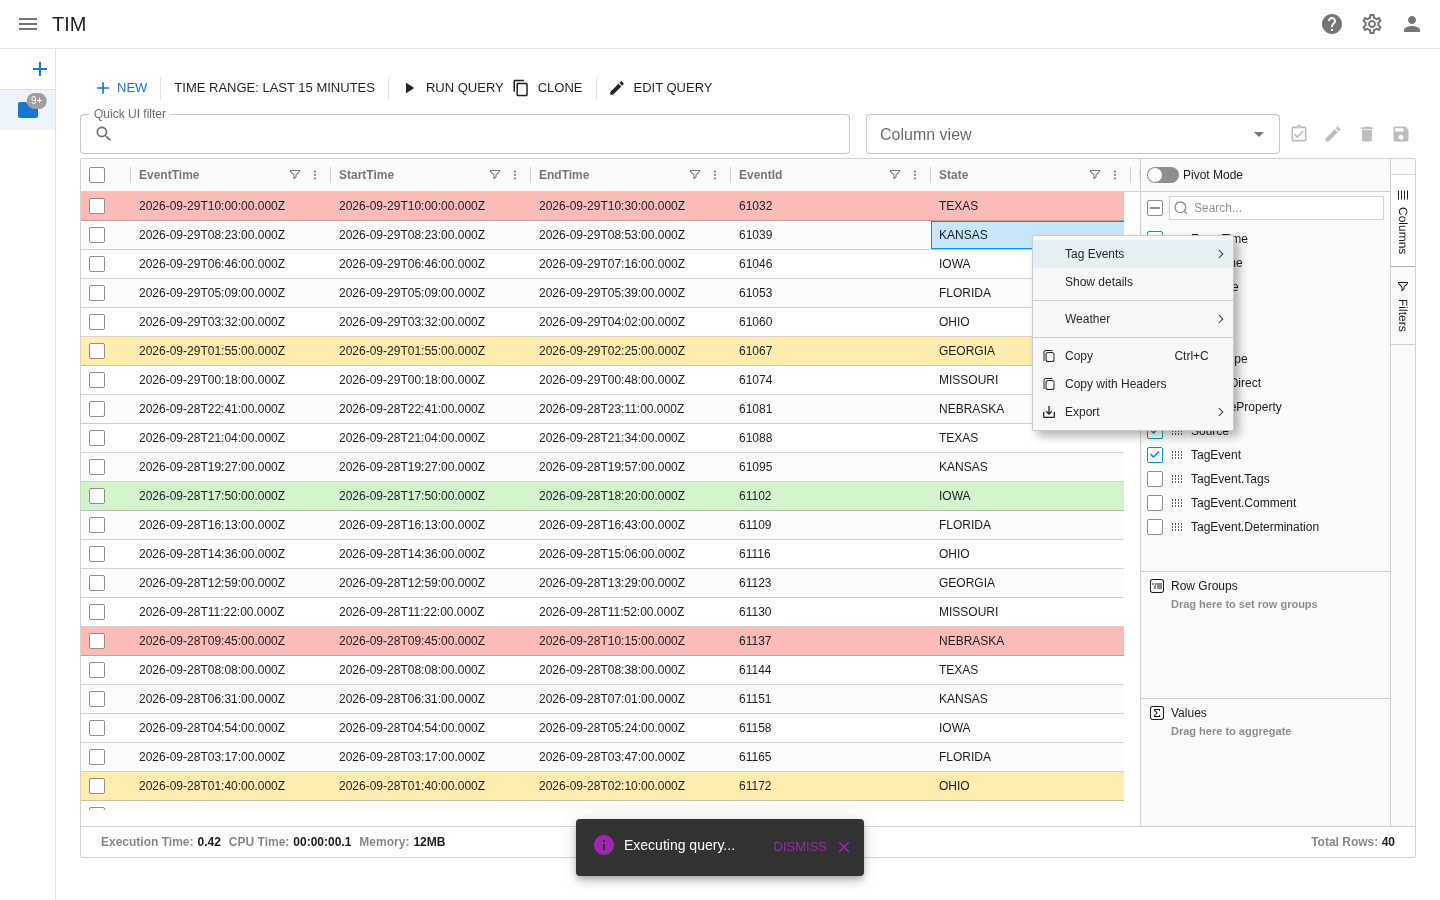
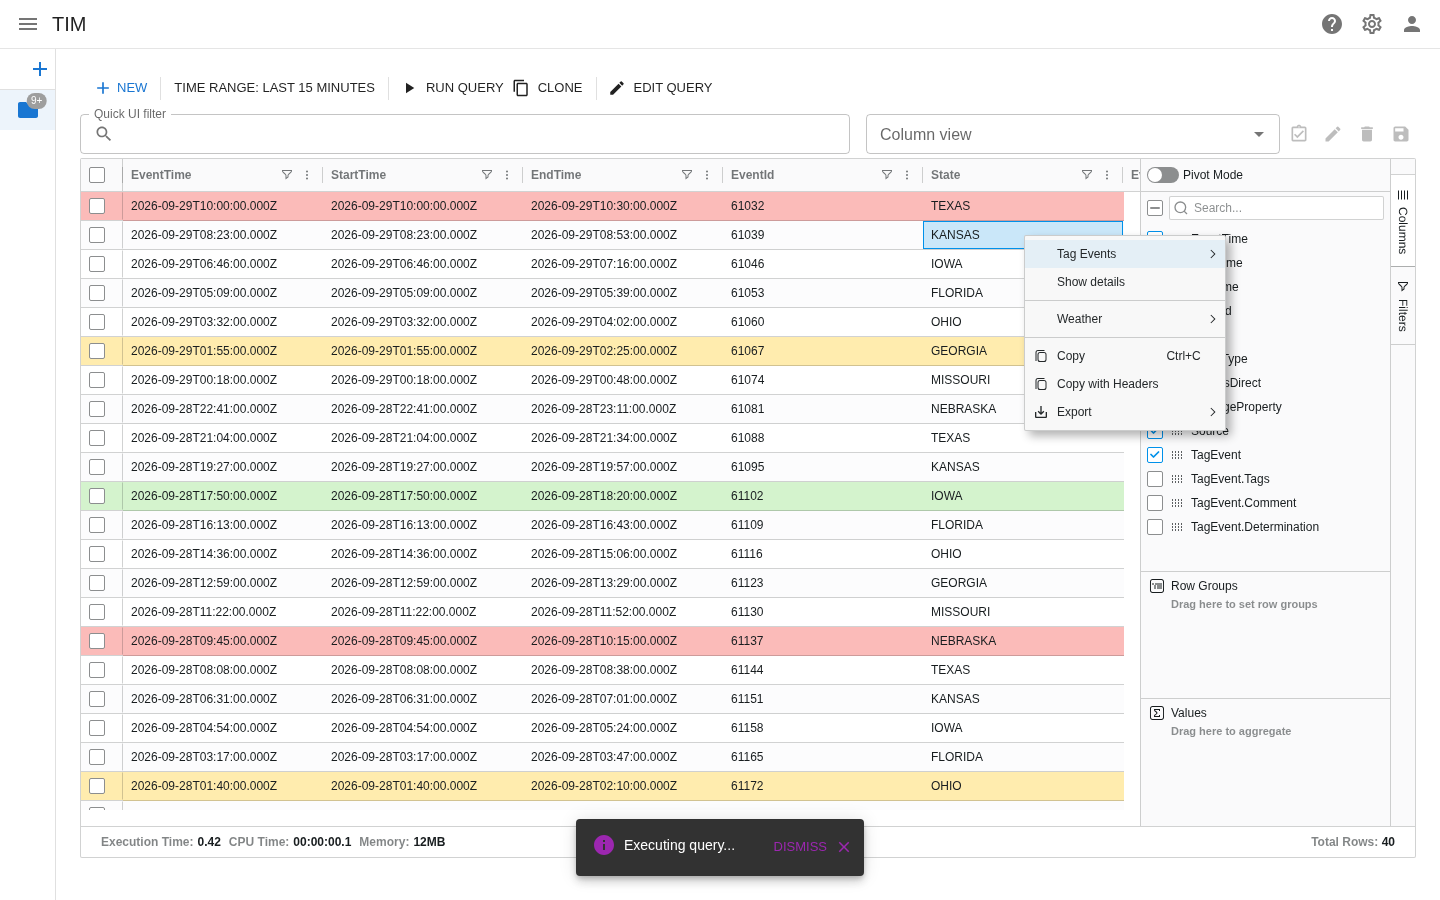
fix(web): pin the selection checkbox column left (P5-17)
A live side-by-side sweep of the legacy app (8a2ff2e) and the rewrite
found that the row checkboxes scrolled away when the grid scrolled
sideways; legacy pinned them (KustoPivot.vue checkboxColDef). Add
selectionColumnDef pinned left, width 42 (F-C01) and re-capture
screens 21-27.

Parity report: record F-C01 (fixed) and F-C02 (export still writes
isDeleted/isManaged/name; open for a decision), accept the on-blur
validation difference (32 #3), and update verdicts P5-13 had already
fixed. Add P5-17 to the work breakdown and refresh the status.

diff --git a/web/src/features/grid/grid.test.ts b/web/src/features/grid/grid.test.ts
@@ -1,7 +1,13 @@
 import { describe, expect, it } from 'vitest';
 import { aggFuncs, dcount } from './aggregation';
 import { buildColumnDefs, collectColumnNames, prepareRows } from './columns';
-import { buildContextMenu, dateComparator, defaultColDef, quickFilterText } from './gridOptions';
+import {
+  buildContextMenu,
+  dateComparator,
+  defaultColDef,
+  quickFilterText,
+  staticGridOptions,
+} from './gridOptions';
 import { getDetermination, rowClassRules } from './rowClasses';
 import { createStatsStore, formatExecutionStats, formatMemoryMb } from './status';
 
@@ -94,6 +100,14 @@ describe('grid options helpers', () => {
     expect(quickFilterText(null)).toBe('');
     expect(quickFilterText(5)).toBe('5');
   });
+  it('pins the selection checkbox column left (F-C01)', () => {
+    expect(staticGridOptions.selectionColumnDef).toMatchObject({
+      pinned: 'left',
+      lockPinned: true,
+      width: 42,
+    });
+  });
+
   it('multi filter defaults', () => {
     const filters = (defaultColDef.filterParams as { filters: { filter: string }[] }).filters;
     expect(defaultColDef.filter).toBe('agMultiColumnFilter');

diff --git a/web/src/features/grid/gridOptions.ts b/web/src/features/grid/gridOptions.ts
@@ -104,6 +104,16 @@ export const staticGridOptions: GridOptions<GridRowWithId> = {
     headerCheckbox: true,
     selectAll: 'filtered',
   },
+  // Legacy checkboxColDef: checkboxes stay visible while the grid scrolls sideways (F-C01).
+  selectionColumnDef: {
+    pinned: 'left',
+    lockPinned: true,
+    lockPosition: true,
+    suppressMovable: true,
+    width: 42,
+    resizable: false,
+    sortable: false,
+  },
   cellSelection: true,
   sideBar: SIDE_BAR,
   statusBar: { statusPanels: STATUS_PANELS },

diff --git a/docs/rewrite/parity-report.md b/docs/rewrite/parity-report.md
@@ -19,8 +19,12 @@ Each difference is **accepted** (with the reason: ADR, question, bug ID, library
 | F-B03 | 27 | Active side-tree item not highlighted | P5-14 (fixed P5-14) |
 | F-B04 | 33, 34 | Last Updated shows locale text; legacy shows the UTC ISO value. Match legacy (parity first) | P5-14 (fixed P5-14) |
 | F-B05 | 34 | Deleted rows not greyed out in Query Manager | P5-14 (fixed P5-14) |
-| F-B06 | 36 | Screenshot taken before the YAML/query editors loaded; re-capture | P5-13 |
+| F-B06 | 36 | Screenshot taken before the YAML/query editors loaded; re-capture | P5-13 (fixed P5-13) |
 | F-B07 | 40 | Export JSON shape differs from legacy; verify export → import round-trip and drop server-only fields | P5-14 (fixed P5-14 (server-only fields stripped, round-trip test; legacy compat accepted per Q-004)) |
+| F-C01 | 25, 26 | Selection checkbox column scrolls away with the grid; legacy pinned it left (`KustoPivot.vue` `checkboxColDef`, `pinned: 'left'`, `lockPinned`, width 42) | P5-17 (fixed P5-17: `selectionColumnDef` in `web/src/features/grid/gridOptions.ts`; screens 21–27 re-captured) |
+| F-C02 | 40 | Exported `queryTemplate` still holds `isDeleted`, `isManaged` and `name` (only `createdBy`/`updatedBy`/`updated` are stripped, `exportImport.ts` `SERVER_ONLY`) | open: strip them or accept (user decision) |
+
+P5-17 (2026-10-01) re-ran the comparison live: the legacy frontend from `8a2ff2e` and the new app served side by side on the same mocks, each screen driven to the same state in both, with pixel diffs and a text/role/position diff (Vuetify and MUI markup can't be compared as trees). The plainer query-help table (no row dividers, inline code without a grey background) is covered by 13 #4. It found F-C01 and F-C02, the on-blur validation difference (32 #3), and verdicts that P5-13 had fixed but this report still showed as "fix" (07 #1, #4; 12 #1; 13 #2; 14 #4; 15 #7; 36 #1). The harness lived in a scratch directory and is not in the repo.
 
 Accepted without a fix: F-A05 (`getTagEvents()` vs legacy `GetTagEvents()`, BUG-41); the account name in the account menu (Q-112); prefilled custom time-range dialogs (Q-113).
 
@@ -72,10 +76,10 @@ Common to every screen (not repeated): MUI vs Vuetify look (filled blue GET STAR
 ### 07 kusto-query-edit
 | # | Difference | Verdict | Reason / follow-up |
 |---|---|---|---|
-| 1 | Query editor shows only a loading spinner; default DeviceProcessEvents query (legacy shows 5 lines) not visible | fix | Screenshot taken before Monaco finished loading. F-A01: wait for editor content in `w02-adhoc-query` flow and re-shoot (web/e2e/flows/w02-*.ts). Default text itself exists (`web/src/features/kusto-query/defaultQuery.ts`). |
+| 1 | Query editor shows only a loading spinner; default DeviceProcessEvents query (legacy shows 5 lines) not visible | fixed (P5-13) | Screenshot taken before Monaco finished loading. F-A01: wait for editor content in `w02-adhoc-query` flow and re-shoot (web/e2e/flows/w02-*.ts). Default text itself exists (`web/src/features/kusto-query/defaultQuery.ts`). |
 | 2 | Validation errors shown only after a failed Save & Run (legacy: immediately) | accepted | Documented in rewrite README (deliberate); the shot forces a failed submit. |
 | 3 | Labels carry asterisk ("Cluster *", "Database *") | accepted | MUI required marker, positive |
-| 4 | Toolbar "Time range: Last 15 minutes" is plain dark text, not upper-case, and looks like a label rather than a button (legacy: TIME RANGE: LAST 15 MINUTES in same style as other toolbar buttons) | fix | F-A02: give the time-range trigger the same button styling/uppercase as NEW / RUN QUERY so it reads as clickable (web/src/components/TimeRange*.tsx, toolbar). Rewrite README only notes the casing, it does not justify the lost affordance. |
+| 4 | Toolbar "Time range: Last 15 minutes" is plain dark text, not upper-case, and looks like a label rather than a button (legacy: TIME RANGE: LAST 15 MINUTES in same style as other toolbar buttons) | fixed (P5-13) | F-A02: give the time-range trigger the same button styling/uppercase as NEW / RUN QUERY so it reads as clickable (web/src/components/TimeRange*.tsx, toolbar). Rewrite README only notes the casing, it does not justify the lost affordance. |
 | 5 | Summary is an outlined field; Query label icon is filled | accepted | styling |
 
 ### 08 time-range-menu
@@ -108,7 +112,7 @@ Common to every screen (not repeated): MUI vs Vuetify look (filled blue GET STAR
 ### 12 kusto-query-edit-filled
 | # | Difference | Verdict | Reason / follow-up |
 |---|---|---|---|
-| 1 | KQL has no syntax colouring and no diagnostics squiggle/scrollbar marker (legacy: coloured tokens, red squiggle under DeviceProcessEvents, red scrollbar marker) | fix | F-A03: verify monaco-kusto tokenizer and schema load (`web/src/lib/monaco/loader.ts`, `web/src/features/kusto-query/useKustoSchema.ts`); if working, delay the shot until tokens render; if not, fix. Editor is also plain text in 13 (background) and 14. |
+| 1 | KQL has no syntax colouring and no diagnostics squiggle/scrollbar marker (legacy: coloured tokens, red squiggle under DeviceProcessEvents, red scrollbar marker) | fixed (P5-13) | F-A03: verify monaco-kusto tokenizer and schema load (`web/src/lib/monaco/loader.ts`, `web/src/features/kusto-query/useKustoSchema.ts`); if working, delay the shot until tokens render; if not, fix. Editor is also plain text in 13 (background) and 14. |
 | 2 | Database field focused with clear (x) button | accepted | MUI Autocomplete |
 | 3 | Cluster/Database values, no validation errors | accepted | parity |
 
@@ -116,17 +120,17 @@ Common to every screen (not repeated): MUI vs Vuetify look (filled blue GET STAR
 | # | Difference | Verdict | Reason / follow-up |
 |---|---|---|---|
 | 1 | Same Required Fields table, Time Range and Tagged Events sections; "Close" button is pinned in a footer (legacy: at end of scroll) | accepted | improvement |
-| 2 | StartTime / EndTime bold emphasis in the query_parameters code block is lost | fix | F-A04 (low): restore bold markup for StartTime/EndTime in the sample (web/src/features/kusto-query/QueryHelperDialog.tsx, queryHelperSamples.ts). |
+| 2 | StartTime / EndTime bold emphasis in the query_parameters code block is lost | fixed (P5-13) | F-A04 (low): restore bold markup for StartTime/EndTime in the sample (web/src/features/kusto-query/QueryHelperDialog.tsx, queryHelperSamples.ts). |
 | 3 | Tagged-events sample shows cluster("https://help.kusto.windows.net") where legacy showed cluster("") | accepted | Legacy interpolated an empty cluster; new fills the selected cluster (better). |
 | 4 | Type cell "Tagging, Queries" (legacy "Tagging,Queries"); table less chrome | accepted | minor text/styling |
 
 ### 14 query-help-dialog-scrolled
 | # | Difference | Verdict | Reason / follow-up |
 |---|---|---|---|
-| 1 | Sample ends `invoke getTagEvents()` (legacy `GetTagEvents()`) | fix | F-A05 (low): check case against legacy source / known-issues; Kusto function names are case-sensitive and the sample defines `getTagEvents`, so the new text is internally consistent and likely the correct one. If confirmed, mark accepted (legacy typo) and note in known-issues. (queryHelperSamples.ts) |
+| 1 | Sample ends `invoke getTagEvents()` (legacy `GetTagEvents()`) | accepted | F-A05 (low): check case against legacy source / known-issues; Kusto function names are case-sensitive and the sample defines `getTagEvents`, so the new text is internally consistent and likely the correct one. If confirmed, mark accepted (legacy typo) and note in known-issues. (queryHelperSamples.ts) |
 | 2 | Examples block lacks the stray trailing "}" that legacy shows after ReportIndex) | accepted | legacy typo not ported |
 | 3 | Dialog title stays pinned while body scrolls | accepted | improvement |
-| 4 | Editor behind dialog not syntax coloured | fix | covered by F-A03 |
+| 4 | Editor behind dialog not syntax coloured | fixed (P5-13) | covered by F-A03 |
 
 ### 15 kusto-query-results
 | # | Difference | Verdict | Reason / follow-up |
@@ -137,7 +141,7 @@ Common to every screen (not repeated): MUI vs Vuetify look (filled blue GET STAR
 | 4 | Quick UI filter is an outlined field whose floating label "Quick UI filter" looks half-clipped at the top edge; Column view label clipped the same way | fixed | F-A06: increase toolbar top padding / remove overflow clipping so floating labels render fully (web/src/features/query-results/ result toolbar component, e.g. QuickFilter/ColumnView). Also affects 17, 18, 19, 20. | ([fixed P5-14])
 | 5 | Tab badge "9+" is a tiny superscript without the grey circle, looks clipped by the tab strip (legacy: full grey pill) | fixed | F-A07: give the tab-strip badge room/overflow visible and a background (web/src/features/tabs/ tab strip / SideQueryTree badge). Affects 15-20. | ([fixed P5-14])
 | 6 | Footer shows Execution Time, CPU Time, Memory, Total Rows; toast "Executing query..." purple info icon instead of blue; toast sits over footer | accepted | README: footer as legacy; toast styling (MUI) |
-| 7 | Time range button looks like plain text | fix | see F-A02 |
+| 7 | Time range button looks like plain text | fixed (P5-13) | see F-A02 |
 
 ### 16 side-tree-expanded
 | # | Difference | Verdict | Reason / follow-up |
@@ -215,6 +219,7 @@ Shared note for screens 21-32 and 41: the new grid screens show header filter/me
 | 1 | Rows 3 and 4 selected (IOWA, FLORIDA) in both | accepted | – |
 | 2 | Child tab in the left strip shows a spinner (new) versus a blue 9+ badge (legacy) | accepted | README note: capture timing, child still loading |
 | 3 | Sidebar open and focused cell differs | accepted | capture sequence |
+| 4 | After the grid scrolls sideways the row checkboxes scroll away (also behind the dialog in 25); legacy keeps the checkbox column pinned left | fixed (P5-17) | F-C01 |
 
 ### 27 side-tree-with-pivot
 | # | Difference | Verdict | Reason / follow-up |
@@ -255,6 +260,7 @@ Shared note for screens 21-32 and 41: the new grid screens show header filter/me
 |---|---|---|---|
 | 1 | Same summary, required EventType, Preview Query, disabled RUN QUERY/CLONE/CONVERT, SAVE & RUN/SAVE/CANCEL | accepted | – |
 | 2 | Tab strip: active new tab has no badge in either | accepted | – |
+| 3 | Legacy shows "Required." as soon as an empty required parameter loses focus; new shows it after Save or Save & Run (also on the template query tab) | accepted | same rule as 07 #2 (P5-17) |
 
 ### 33 query-manager
 | # | Difference | Verdict | Reason / follow-up |
@@ -284,7 +290,7 @@ Shared note for screens 21-32 and 41: the new grid screens show header filter/me
 ### 36 create-query-dialog-scrolled
 | # | Difference | Verdict | Reason / follow-up |
 |---|---|---|---|
-| 1 | New shows Params, Column customisation and Query editors, each with a loading spinner instead of the (empty) editor content | fix (capture only) | F-B06: re-capture after Monaco finishes loading (wait for `.monaco-editor` in the w12-query-manager spec, web/e2e/flows) so the screenshot shows the editors, as legacy did |
+| 1 | New shows Params, Column customisation and Query editors, each with a loading spinner instead of the (empty) editor content | fixed (P5-13) | F-B06: re-capture after Monaco finishes loading (wait for `.monaco-editor` in the w12-query-manager spec, web/e2e/flows) so the screenshot shows the editors, as legacy did |
 | 2 | Editor section labels are the same | accepted | – |
 
 ### 37 edit-query-dialog
@@ -314,6 +320,7 @@ Shared note for screens 21-32 and 41: the new grid screens show header filter/me
 | 2 | Snackbar "All settings have been exported and saved to your clipboard." with DISMISS | accepted | same |
 | 3 | JSON differs: new contains one tab and embeds extra template metadata (`isDeleted`, `isManaged`, `createdBy`, `updatedBy`, `updated`) inside `queryTemplate`, and a new `editQuery` state key. Legacy holds two tabs and only template fields | fixed | F-B07: confirm the export shape against legacy ExportImport.vue (frontend/src/components) and docs/rewrite/api-contract.md. If legacy round-trip files must import in the new app (W13), the schema must be compatible, and server-side fields (createdBy/updatedBy, emails) should not be exported into shared JSON. Files: web/src/features/export-import/ | ([fixed P5-14; legacy-format import accepted per Q-004])
 | 4 | Textarea is narrower (980px) and sits under the heading | accepted | layout |
+| 5 | `queryTemplate` still includes `isDeleted`, `isManaged` and `name` | open | F-C02 (P5-17) |
 
 ### 41 share-link-opened
 | # | Difference | Verdict | Reason / follow-up |

diff --git a/docs/README.md b/docs/README.md
@@ -8,13 +8,13 @@ TIM ("triage and investigation") is a Kusto investigation platform: analysts run
 | | |
 |---|---|
 | Phase | **5 — Verification: done except the CI-green confirmation** (P5-01…P5-05, P5-07…P5-16 done; P5-06 dropped). Legacy removed (P5-12); release automation retargeted to `tim-web`/`tim-api` (P5-11) |
-| Last updated | 2026-09-30 |
+| Last updated | 2026-10-01 |
 | Done | Legacy explored; 42 screenshots + index; harness (`tools/legacy-screenshots/`, removed in P5-12); rules; all current-system docs; target architecture (Accepted); component mapping; work breakdown; ADRs 0001–0006; root `CLAUDE.md`. All Blocking questions answered (Q-001…Q-004, Q-019, Q-027) |
 | Phase 1 | Done, except P1-05/06 (CI workflows) awaiting a green PR run. Images + compose verified with Docker 2026-09-30 |
 | Phase 2 | Done (P2-01…P2-16): models, Entra JWT + OBO, cluster validation, Kusto query client, schema/query-run/template/tagged-event endpoints, PostgreSQL + Alembic, streaming tag ingestion, table-creation CLI, problem-details errors, OpenAPI snapshot + `web/src/lib/api/schema.d.ts`. 451 api tests |
 | Phase 3 | Done (P3-01…P3-10): MSAL popup auth, typed API client + query-run polling, IndexedDB `tim` DB, time range, app shell, bootstrap, routing, draggable dialog |
 | Phase 4 | Done (P4-01…P4-30): tab store, side tree, TabHost, New Query menu, ad-hoc tab (Monaco Kusto, time range, cluster), schema IntelliSense, query runs, AG Grid Enterprise grid + status/side bars, column views, detail panel, KQL template engine + template tab, pivots, tagging (quick tag, dialog, inline comment), share links, Query Manager, Export/Import, help menu. 463 web tests; browser smoke test (Playwright, mocked Kusto) of all main flows passed 2026-09-30. |
-| Phase 5 | Playwright e2e (`npm run e2e`, 28 tests, flows W1–W14) with all 42 screens re-captured in `rewrite/screenshots/`; [parity-report.md](rewrite/parity-report.md) (13 fixes applied, bug-regression checklist for all 41 BUG/SEC IDs); load pass (row/byte caps, `TIM_MAX_CONCURRENT_RUNS`); production compose + nginx with CSP in `deploy/`, fresh deploy verified on Docker 2026-09-30 (P5-08); [security-review.md](rewrite/security-review.md): no High; insider-only findings accepted for trusted internal users (Q-030). 467 api tests, 470 web tests. dompurify override clears `npm audit --omit=dev` (P5-16). No production or users (Q-034): P5-10..P5-12 were repo/CI changes, executed together 2026-09-30 (see [cutover-plan.md](rewrite/cutover-plan.md)). Next: open a PR so CI (`build-api.yml`, `build-web.yml`, P1-05/06) runs green for the first time; on a first real deploy run the smoke checklist in cutover-plan section 4 |
+| Phase 5 | Playwright e2e (`npm run e2e`, 28 tests, flows W1–W14) with all 42 screens re-captured in `rewrite/screenshots/`; [parity-report.md](rewrite/parity-report.md) (14 fixes applied, bug-regression checklist for all 41 BUG/SEC IDs; P5-17 live side-by-side sweep added F-C01, fixed, and F-C02, open); load pass (row/byte caps, `TIM_MAX_CONCURRENT_RUNS`); production compose + nginx with CSP in `deploy/`, fresh deploy verified on Docker 2026-09-30 (P5-08); [security-review.md](rewrite/security-review.md): no High; insider-only findings accepted for trusted internal users (Q-030). 467 api tests, 471 web tests. dompurify override clears `npm audit --omit=dev` (P5-16). No production or users (Q-034): P5-10..P5-12 were repo/CI changes, executed together 2026-09-30 (see [cutover-plan.md](rewrite/cutover-plan.md)). Next: open a PR so CI (`build-api.yml`, `build-web.yml`, P1-05/06) runs green for the first time; on a first real deploy run the smoke checklist in cutover-plan section 4 |
 | Decisions | PostgreSQL; AG Grid Enterprise only (trial by default, licence key optional, no Community build); popup + OBO; no data migration; `web/` + `api/` (ADR-0003…0006) |
 
 ## Map

diff --git a/docs/rewrite/work-breakdown.md b/docs/rewrite/work-breakdown.md
@@ -161,3 +161,4 @@ Order follows dependencies. Legacy refs: `frontend-components.md`, `workflows.md
 | P5-14 | Parity fixes: layout, tree, tagging, Query Manager, export (F-A06, F-A07, F-B01–F-B05, F-B07) | P5-04 | – | Fixes applied, affected screens re-captured, report rows marked fixed | done |
 | P5-15 | ~~Security follow-ups, API (S-A01, S-A02, S-A04, S-A07)~~ | – | – | Accepted risk for trusted internal users (Q-029, Q-030) | dropped (Q-030) |
 | P5-16 | Dependency maintenance: bump monaco-editor and @kusto/monaco-kusto together to clear the dompurify advisories (S-W06); other web/deploy findings accepted (Q-030) | P5-09 | – | `npm audit --omit=dev` clean of moderate+; e2e green | done (no compatible bump: monaco-kusto 15.0.1 pins monaco-editor ^0.55; npm `overrides` dompurify ^3.4.15 → audit 0 vulnerabilities; e2e 28/28) |
+| P5-17 | Live parity sweep: legacy (`8a2ff2e`) and new app side by side on shared mocks, pixel and text/role diffs for screens 00–41; fix what it finds | P5-13, P5-14 | – | New differences recorded in parity-report.md; regressions fixed or open with a decision | done (2026-10-01): F-C01 checkbox column pinned (screens 21–27 re-captured), stale P5-13 verdicts updated; F-C02 (export metadata) open for a decision |
